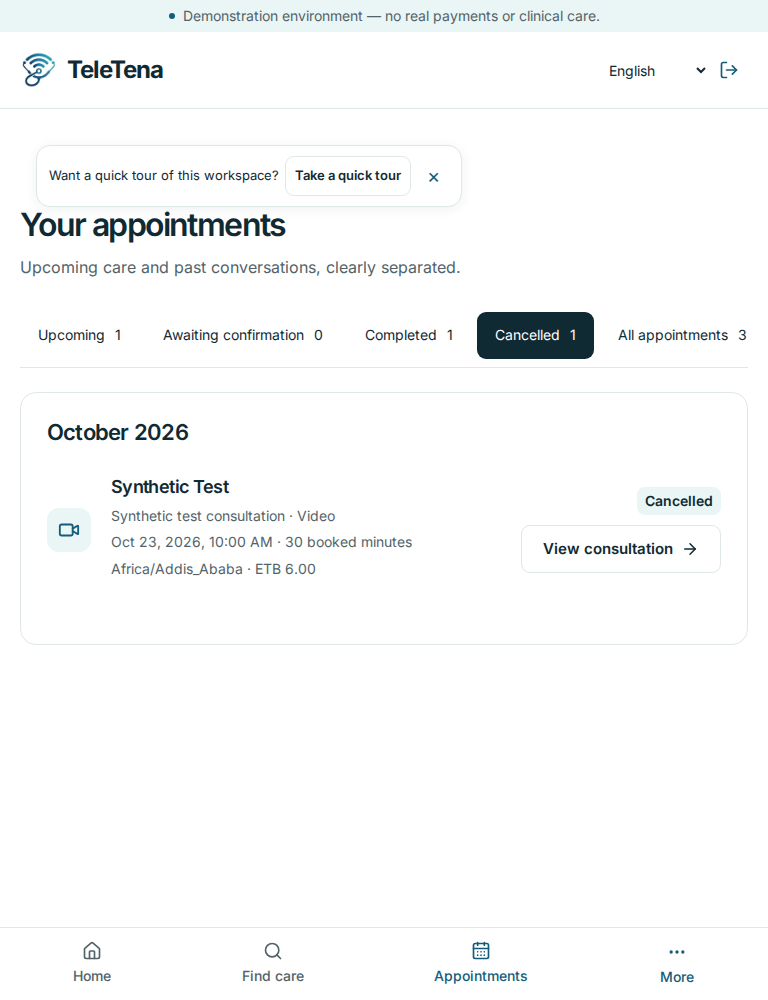
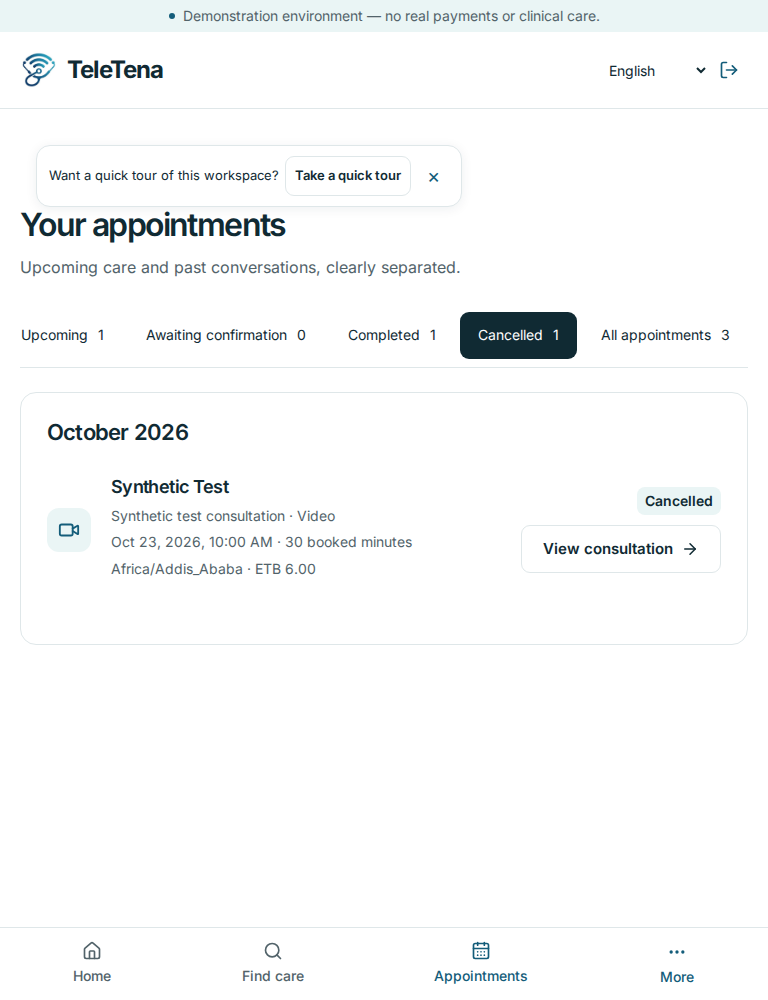
test(mvp): verify mobile history reload and record current packaged preview

Changed region(s): [[0.4375, 0.31, 0.9688, 0.372], [0.1875, 0.31, 0.4062, 0.341], [0.0312, 0.31, 0.1562, 0.341]]

diff --git a/docs/mvp-journey-verification-2026-10-09.md b/docs/mvp-journey-verification-2026-10-09.md
@@ -8,7 +8,7 @@ keeps visual fidelity and functional journey acceptance independent.
 
 - Branch `feat/mvp-release-handover`, draft PR #44, dependent on draft PR #43.
   The preserved `1e8d161468eb8d3563f1b5743982722c749bbcbf` ancestor remains included.
-- Packaged application source **`3b02709d77d39a4e70e963e8519f75fa74794a0e`**.
+- Packaged application source **`0eb22ef4e0c988cebabe869b75b042f040bf677f`**.
   Account browser evidence below was captured at `7aa1ea9`; the latest appointment/documentation browser evidence uses this packaged source. Subsequent evidence/documentation commits do not change its application code.
 - **http://127.0.0.1:8017/teletena/**; site
   `tele-tena-pr12-fresh.localhost`; bench `/home/frappe/frappe/frappe-bench`.
@@ -45,7 +45,7 @@ historical evidence, not an assertion that the entire MVP has passed.
   200% (1440 outer width, 720 CSS width, DPR2), paired application/reference.
   The abort-on-save check is controlled transport failure, not proof of a real
   server outage. Profile/defaults/preferences values were checked in MariaDB.
-- `scripts/check_mvp_notes_browser.py` passed against packaged `9988610`, then `3b02709` after adding local month/year history grouping.
+- `scripts/check_mvp_notes_browser.py` passed against packaged `9988610`, then `3b02709` after adding local month/year history grouping, and `0eb22ef` after correcting selected-tab visibility on resize/reload.
   Real owned accounts and backend operations, appointment cancellation,
   persisted notes/publication/amendment, patient and reviewer authorization,
   delayed route isolation, 390/768/1440 paired appointment views.
@@ -56,10 +56,10 @@ historical evidence, not an assertion that the entire MVP has passed.
   every clinician name to fall back to “Your clinician”. Cancellation actor
   IDs are retained privately, not returned to unrelated participants.
 - Asset/hash/PWA scope scanner passed for `9988610` and `3b02709`, including exact-value scan against four privately stored reviewer passwords; no match. No provider values were configured on this site.
-- Locked production build `scripts/build_review.py` passed for `9988610` and `3b02709`.
+- Locked production build `scripts/build_review.py` passed for `9988610`, `3b02709` and `0eb22ef`.
   Lint exits 0 with existing warnings; build retains >500KB chunk warning.
   These are not visual acceptance.
-- Real supported PWA waiting/update flow passed **3bf96b1 → dfe9a2b**, then **9988610 → 3b02709**:
+- Real supported PWA waiting/update flow passed **3bf96b1 → dfe9a2b**, then **9988610 → 3b02709** and **3b02709 → 0eb22ef**:
   old application remained until explicit Refresh; new public bundle loaded;
   no private/API cache paths. Not rerun as a physical-device check or claimed
   as device-level uninterrupted calling or installation.
@@ -105,11 +105,11 @@ release gates. Original journals/records have not been rewritten for this fix.
 ### Paired comparisons and current review steps
 
 Evidence: `docs/screenshots/mvp-connected-journeys/H01–H04-*` (source `7aa1ea9`)
-and `E01-{upcoming,completed,cancelled}-*` (source `3b02709`). Desktop pairs were
+and `E01-{upcoming,completed,cancelled}-*` (source `0eb22ef`). Desktop and mobile pairs were
 visually inspected. H01 now follows reference columns, wallet and settings rows;
 missing city/verified contact fields and incomplete shared-care workflow remain
 explicit differences. E01 follows reference heading/tabs; additional operational
-views, fuller facts, tour invitation and generic Upcoming date grouping still differs.
+views, fuller facts, tour invitation and generic Upcoming date grouping still differs. A real 390px comparison exposed an off-screen selected tab; the strip now reveals the selected view horizontally without moving page scroll/focus. The capture harness verifies visibility at each width.
 **Neither area is declared visually accepted.** No universal pixel-match score.
 
 Open **http://127.0.0.1:8017/teletena/** with existing private reviewer credentials.

diff --git a/docs/mvp-delivery-tracker.md b/docs/mvp-delivery-tracker.md
@@ -739,6 +739,8 @@ private-note-sharing statements are superseded.
 
 ## Current 9 October account / appointment / worker checkpoint
 
-Active source/evidence: [current journey verification](mvp-journey-verification-2026-10-09.md); packaged frontend `3b02709`, draft PR #44 preserving PR #43. H01–H04 account/privacy/reference composition and real saves/errors, E01 status views/detail navigation/cancellation, and E02/E11/E13 note permissions/publication passed their focused owned browser checks. Paired comparisons retain explicit differences; visual acceptance is not complete. Native installed earnings job executed twice in a dedicated RQ worker, one release, dispute held, one payout reservation. Twelve retained-table pre/post fingerprints matched. Continuous scheduler remains disabled; forced dispatch is not daemon acceptance. Inherited test cleanup's global projection recalculation is removed; regression preserves unrelated discrepancies. Fresh/legacy cutover, couples, registration, hosted call, whole-MVP fidelity and coherent presentation data remain release gates.
+Active source/evidence: [current journey verification](mvp-journey-verification-2026-10-09.md); packaged frontend `0eb22ef`, draft PR #44 preserving PR #43. H01–H04 account/privacy/reference composition and real saves/errors, E01 status views/detail navigation/cancellation, and E02/E11/E13 note permissions/publication passed their focused owned browser checks. Paired comparisons retain explicit differences; visual acceptance is not complete. Native installed earnings job executed twice in a dedicated RQ worker, one release, dispute held, one payout reservation. Twelve retained-table pre/post fingerprints matched. Continuous scheduler remains disabled; forced dispatch is not daemon acceptance. Inherited test cleanup's global projection recalculation is removed; regression preserves unrelated discrepancies. Fresh/legacy cutover, couples, registration, hosted call, whole-MVP fidelity and coherent presentation data remain release gates.
 
 Current refinement: completed/cancelled appointment history groups by booked timezone month and year; actual browser recheck passed on `3b02709`. Existing controlled PWA client explicitly updated `9988610` → `3b02709`. Four focused persisted OTP regressions passed with mocked provider transport; full enabled-registration HTTP browser acceptance remains pending.
+
+Selected history tabs now remain visible on responsive resize and mobile reload; current owned browser captures check the selected button lies inside the strip. Supported controlled PWA update `3b02709` → `0eb22ef` passed; this does not claim physical-device installation/calling.
